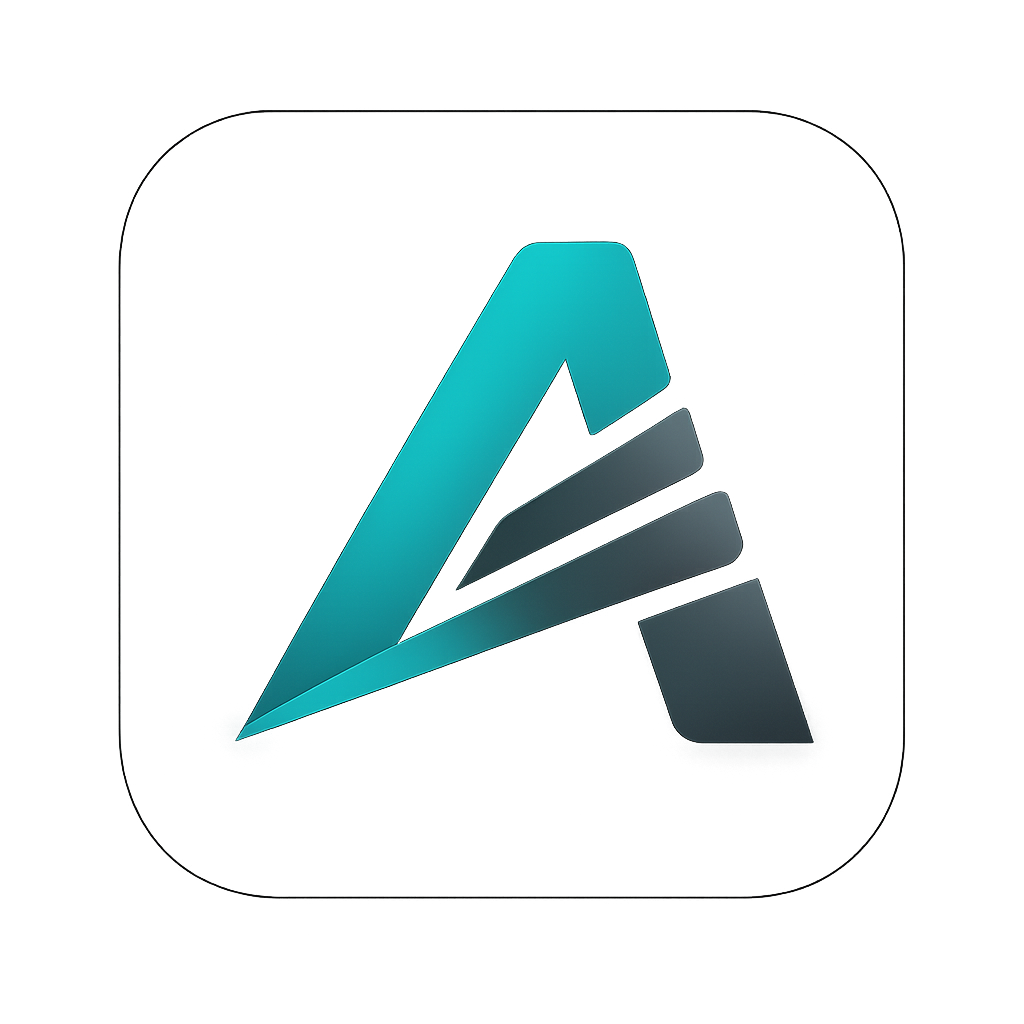
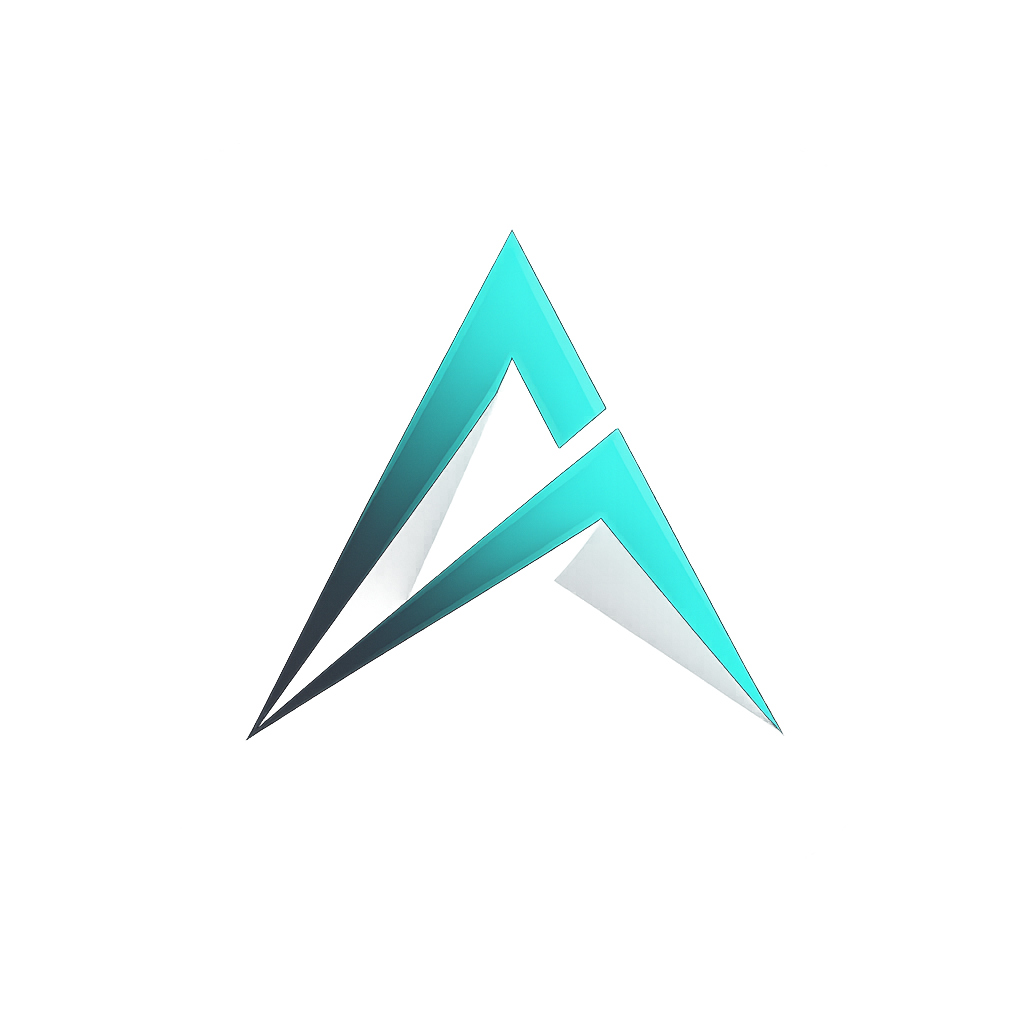
fix: Trainerize-style auth, workout tab layout, purge old colors
Auth screens (Trainerize-inspired):
- Welcome: clean centered "Welcome" title + SIGN IN button, nothing else
- Sign-in: back button, "Welcome" title, email/password with icons,
  SIGN IN button, Forgot Password link. No sign-up (coach invites).

Workout tab:
- Wrapped in SafeAreaView so header isn't cut off at top
- Consistent with other tabs

Purged hardcoded old colors across 6 files:
- preview.tsx: teal muscle icons → gray (#9CA3AF)
- exercises.tsx: cardio orange gradient → black
- analytics.tsx: teal muscle chart colors → grayscale
- MuscleBalance.tsx: teal/sage → grayscale
- RestTimer.tsx + InlineRestTimer.tsx: colored → grayscale

Updated app icon to latest version.

Changed region(s): [[0.2188, 0.2188, 0.8125, 0.75]]

diff --git a/app/sign-in.tsx b/app/sign-in.tsx
@@ -28,8 +28,7 @@ export default function SignIn() {
     try {
       const { data, error } = await supabase.auth.signInWithPassword({ email, password });
       if (error) { Alert.alert("Error", error.message); return; }
-      const userId = data.user?.id;
-      if (!userId) { Alert.alert("Error", "User not found."); return; }
+      if (!data.user?.id) { Alert.alert("Error", "User not found."); return; }
       router.replace("/(app)/(tabs)" as any);
     } catch (e: any) {
       Alert.alert("Error", e.message);
@@ -56,54 +55,58 @@ export default function SignIn() {
 
           <View style={styles.spacer} />
 
-          {/* Header */}
+          {/* Title */}
           <Text allowFontScaling={false} style={[styles.title, { color: colors.text }]}>
-            Sign In
+            Welcome
           </Text>
 
           {/* Form */}
           <View style={styles.form}>
-            <TextInput
-              placeholder="Email"
-              value={email}
-              onChangeText={setEmail}
-              autoCapitalize="none"
-              keyboardType="email-address"
-              textContentType="emailAddress"
-              placeholderTextColor={colors.inputPlaceholder}
-              style={[styles.input, { color: colors.text, borderColor: colors.border }]}
-            />
-            <TextInput
-              placeholder="Password"
-              value={password}
-              onChangeText={setPassword}
-              secureTextEntry
-              textContentType="password"
-              placeholderTextColor={colors.inputPlaceholder}
-              style={[styles.input, { color: colors.text, borderColor: colors.border }]}
-            />
+            <View style={[styles.inputRow, { borderBottomColor: colors.border }]}>
+              <Ionicons name="mail-outline" size={20} color={colors.textMuted} />
+              <TextInput
+                placeholder="Email"
+                value={email}
+                onChangeText={setEmail}
+                autoCapitalize="none"
+                keyboardType="email-address"
+                textContentType="emailAddress"
+                placeholderTextColor={colors.textMuted}
+                style={[styles.input, { color: colors.text }]}
+              />
+            </View>
+
+            <View style={[styles.inputRow, { borderBottomColor: colors.border }]}>
+              <Ionicons name="key-outline" size={20} color={colors.textMuted} />
+              <TextInput
+                placeholder="Password"
+                value={password}
+                onChangeText={setPassword}
+                secureTextEntry
+                textContentType="password"
+                placeholderTextColor={colors.textMuted}
+                style={[styles.input, { color: colors.text }]}
+              />
+            </View>
+
             <Pressable
               onPress={onLogin}
               disabled={loading}
               style={[styles.btn, { backgroundColor: colors.text }, loading && styles.btnDisabled]}
             >
               <Text allowFontScaling={false} style={[styles.btnText, { color: colors.bg }]}>
-                {loading ? "Signing in..." : "Sign In"}
+                {loading ? "Signing in..." : "SIGN IN"}
+              </Text>
+            </Pressable>
+
+            <Pressable style={styles.forgotWrap}>
+              <Text allowFontScaling={false} style={[styles.forgotText, { color: colors.textMuted }]}>
+                Forgot Password?
               </Text>
             </Pressable>
           </View>
 
           <View style={styles.spacer} />
-
-          {/* Footer */}
-          <View style={styles.footer}>
-            <Pressable onPress={() => router.replace("/sign-up")}>
-              <Text allowFontScaling={false} style={[styles.footerText, { color: colors.textMuted }]}>
-                Don't have an account?{" "}
-                <Text style={{ color: colors.text, fontWeight: "600" }}>Sign Up</Text>
-              </Text>
-            </Pressable>
-          </View>
         </ScrollView>
       </KeyboardAvoidingView>
     </SafeAreaView>
@@ -113,27 +116,32 @@ export default function SignIn() {
 const styles = StyleSheet.create({
   safe: { flex: 1 },
   flex: { flex: 1 },
-  scroll: { flexGrow: 1, paddingHorizontal: spacing.xl },
+  scroll: { flexGrow: 1, paddingHorizontal: 32 },
   spacer: { flex: 1 },
   backBtn: { width: 40, height: 40, justifyContent: "center", marginTop: spacing.sm },
-  title: { fontSize: 28, fontWeight: "700", marginBottom: spacing.xl },
-  form: { gap: 14 },
+  title: { fontSize: 34, fontWeight: "300", marginBottom: 32, letterSpacing: 1 },
+  form: { gap: 0 },
+  inputRow: {
+    flexDirection: "row",
+    alignItems: "center",
+    gap: 12,
+    borderBottomWidth: 1,
+    paddingVertical: 14,
+  },
   input: {
-    height: 52,
-    borderRadius: radius.md,
-    borderWidth: 1,
-    paddingHorizontal: spacing.base,
+    flex: 1,
     fontSize: 16,
+    paddingVertical: 2,
   },
   btn: {
-    height: 56,
-    borderRadius: radius.md,
+    height: 48,
+    borderRadius: radius.xl,
     alignItems: "center",
     justifyContent: "center",
-    marginTop: spacing.sm,
+    marginTop: 28,
   },
   btnDisabled: { opacity: 0.5 },
-  btnText: { fontSize: 17, fontWeight: "600" },
-  footer: { alignItems: "center", paddingBottom: spacing.lg },
-  footerText: { fontSize: 14 },
+  btnText: { fontSize: 14, fontWeight: "600", letterSpacing: 1 },
+  forgotWrap: { alignItems: "center", marginTop: 16 },
+  forgotText: { fontSize: 14 },
 });

diff --git a/app/welcome.tsx b/app/welcome.tsx
@@ -1,10 +1,8 @@
-import { Image, Pressable, StyleSheet, Text, View } from "react-native";
+import { Pressable, StyleSheet, Text, View } from "react-native";
 import { SafeAreaView } from "react-native-safe-area-context";
 import { router } from "expo-router";
 import { useTheme } from "@/src/context/ThemeContext";
 import { spacing, radius } from "@/src/theme";
-
-const LOGO = require("@/assets/images/icon.png");
 
 export default function Welcome() {
   const { colors } = useTheme();
@@ -12,28 +10,18 @@ export default function Welcome() {
   return (
     <SafeAreaView style={[styles.container, { backgroundColor: colors.bg }]}>
       <View style={styles.content}>
-        <Image source={LOGO} style={styles.logo} />
-        <Text allowFontScaling={false} style={[styles.brand, { color: colors.text }]}>
-          ADPT
+        <Text allowFontScaling={false} style={[styles.title, { color: colors.text }]}>
+          Welcome
         </Text>
       </View>
 
       <View style={styles.actions}>
         <Pressable
-          onPress={() => router.push("/sign-up")}
+          onPress={() => router.push("/sign-in")}
           style={[styles.primaryButton, { backgroundColor: colors.text }]}
         >
           <Text allowFontScaling={false} style={[styles.primaryText, { color: colors.bg }]}>
-            Get Started
-          </Text>
-        </Pressable>
-
-        <Pressable
-          onPress={() => router.push("/sign-in")}
-          style={styles.secondaryButton}
-        >
-          <Text allowFontScaling={false} style={[styles.secondaryText, { color: colors.text }]}>
-            Sign In
+            SIGN IN
           </Text>
         </Pressable>
       </View>
@@ -48,39 +36,25 @@ const styles = StyleSheet.create({
     alignItems: "center",
     justifyContent: "center",
   },
-  logo: {
-    width: 80,
-    height: 80,
-    borderRadius: 20,
-    marginBottom: spacing.base,
-  },
-  brand: {
-    fontSize: 28,
-    fontWeight: "700",
-    letterSpacing: 4,
+  title: {
+    fontSize: 34,
+    fontWeight: "300",
+    letterSpacing: 1,
   },
   actions: {
     paddingHorizontal: spacing.xl,
-    paddingBottom: spacing.xxl,
+    paddingBottom: 48,
     gap: spacing.md,
   },
   primaryButton: {
-    height: 56,
-    borderRadius: radius.md,
+    height: 52,
+    borderRadius: radius.xl,
     alignItems: "center",
     justifyContent: "center",
   },
   primaryText: {
-    fontSize: 17,
-    fontWeight: "600",
-  },
-  secondaryButton: {
-    height: 48,
-    alignItems: "center",
-    justifyContent: "center",
-  },
-  secondaryText: {
     fontSize: 15,
-    fontWeight: "500",
+    fontWeight: "600",
+    letterSpacing: 1,
   },
 });

diff --git a/app/(workout)/preview.tsx b/app/(workout)/preview.tsx
@@ -51,18 +51,18 @@ type PreviousSet = {
 
 // Muscle group icons mapping
 const MUSCLE_ICONS: Record<string, { icon: string; color: string }> = {
-  chest: { icon: "fitness", color: "#00C9B7" },
-  back: { icon: "body", color: "#33D4C5" },
-  shoulders: { icon: "barbell", color: "#00A89A" },
-  arms: { icon: "hand-left", color: "#7FA07F" },
-  biceps: { icon: "hand-left", color: "#7FA07F" },
-  triceps: { icon: "hand-right", color: "#6B8E6B" },
-  legs: { icon: "walk", color: "#60A5FA" },
-  quads: { icon: "walk", color: "#60A5FA" },
-  hamstrings: { icon: "walk", color: "#5B95E5" },
-  glutes: { icon: "walk", color: "#4B85D5" },
-  core: { icon: "body", color: "#F59E0B" },
-  abs: { icon: "body", color: "#F59E0B" },
+  chest: { icon: "fitness", color: "#9CA3AF" },
+  back: { icon: "body", color: "#9CA3AF" },
+  shoulders: { icon: "barbell", color: "#9CA3AF" },
+  arms: { icon: "hand-left", color: "#9CA3AF" },
+  biceps: { icon: "hand-left", color: "#9CA3AF" },
+  triceps: { icon: "hand-right", color: "#9CA3AF" },
+  legs: { icon: "walk", color: "#9CA3AF" },
+  quads: { icon: "walk", color: "#9CA3AF" },
+  hamstrings: { icon: "walk", color: "#9CA3AF" },
+  glutes: { icon: "walk", color: "#9CA3AF" },
+  core: { icon: "body", color: "#9CA3AF" },
+  abs: { icon: "body", color: "#9CA3AF" },
 };
 
 const getMuscleIcon = (muscleGroup?: string) => {

diff --git a/app/(app)/(tabs)/workout.tsx b/app/(app)/(tabs)/workout.tsx
@@ -12,6 +12,7 @@ import { Ionicons } from "@expo/vector-icons";
 import Animated, { FadeInDown } from "react-native-reanimated";
 import { format } from "date-fns";
 
+import { SafeAreaView } from "react-native-safe-area-context";
 import { useTheme } from "@/src/context/ThemeContext";
 import { supabase } from "@/lib/supabase";
 import { hapticPress } from "@/src/animations/feedback/haptics";
@@ -102,7 +103,7 @@ export default function WorkoutScreen() {
   };
 
   return (
-    <View style={[styles.container, { backgroundColor: colors.bg }]}>
+    <SafeAreaView style={[styles.container, { backgroundColor: colors.bg }]} edges={["top"]}>
       {/* Header */}
       <View style={styles.header}>
         <Text allowFontScaling={false} style={[styles.headerTitle, { color: colors.text }]}>
@@ -253,7 +254,7 @@ export default function WorkoutScreen() {
           />
         </Animated.View>
       </ScrollView>
-    </View>
+    </SafeAreaView>
   );
 }
 

diff --git a/app/(workout)/exercises.tsx b/app/(workout)/exercises.tsx
@@ -49,7 +49,7 @@ const muscleGroupConfig: Record<string, { muscle: string; gradient: readonly [st
   "Legs":      { muscle: "quads",     gradient: gradients.legs,      color: muscleGroupColors.legs,      icon: "walk" },
   "Core":      { muscle: "core",      gradient: gradients.core,      color: muscleGroupColors.core,      icon: "radio-button-on" },
   "Full Body": { muscle: "full body", gradient: gradients.fullBody,  color: muscleGroupColors.fullBody,  icon: "body" },
-  "Cardio":    { muscle: "chest",     gradient: ["#FF6B35", "#E55A2B"] as const, color: "#FF6B35",        icon: "heart" },
+  "Cardio":    { muscle: "chest",     gradient: ["#000000", "#1A1A1A"] as const, color: "#000000",        icon: "heart" },
 };
 
 export default function ExercisesScreen() {

diff --git a/src/components/progress/MuscleBalance.tsx b/src/components/progress/MuscleBalance.tsx
@@ -25,12 +25,12 @@ type MuscleBalanceProps = {
 
 // Muscle group colors - distinctive but cohesive
 const muscleColors: Record<string, string> = {
-  Chest: "#00C9B7",      // Primary teal
-  Back: "#33D4C5",       // Light teal
-  Shoulders: "#00A89A",  // Dark teal
-  Arms: "#7FA07F",       // Sage green
-  Legs: "#6B8E6B",       // Dark sage
-  Core: "#60A5FA",       // Info blue
+  Chest: "#000000",
+  Back: "#1A1A1A",
+  Shoulders: "#333333",
+  Arms: "#4B5563",
+  Legs: "#6B7280",
+  Core: "#9CA3AF",
 };
 
 export const MuscleBalance: React.FC<MuscleBalanceProps> = ({ 

diff --git a/src/components/workout/InlineRestTimer.tsx b/src/components/workout/InlineRestTimer.tsx
@@ -24,9 +24,9 @@ export function InlineRestTimer() {
     if (!restTimer.active) return colors.text;
     const totalEstimate = restTimer.secondsLeft + 10; // rough estimate
     const pct = restTimer.secondsLeft / Math.max(totalEstimate, 60);
-    if (pct > 0.5) return "#4CAF50"; // green
-    if (pct > 0.2) return "#FFC107"; // yellow
-    return "#FF6B35"; // red/orange
+    if (pct > 0.5) return "#9CA3AF";
+    if (pct > 0.2) return "#6B7280";
+    return "#000000";
   }, [restTimer.secondsLeft, restTimer.active, colors.text]);
 
   if (!restTimer.active) return null;

diff --git a/app/(app)/progress/analytics.tsx b/app/(app)/progress/analytics.tsx
@@ -48,8 +48,8 @@ const { width: SW } = Dimensions.get("window");
 const KEY_LIFTS = ["Bench Press", "Squat", "Deadlift", "Overhead Press"];
 
 const MUSCLE_COLORS: Record<string, string> = {
-  Chest: "#00C9B7", Back: "#33D4C5", Shoulders: "#00A89A",
-  Arms: "#7FA07F", Legs: "#6B8E6B", Core: "#60A5FA",
+  Chest: "#000000", Back: "#1A1A1A", Shoulders: "#333333",
+  Arms: "#4B5563", Legs: "#6B7280", Core: "#9CA3AF",
 };
 
 const TIME_RANGES: { label: string; value: TimeRange }[] = [

diff --git a/src/components/workout/RestTimer.tsx b/src/components/workout/RestTimer.tsx
@@ -26,9 +26,9 @@ import { haptic } from "@/src/animations/feedback/haptics";
 const AnimatedCircle = Animated.createAnimatedComponent(Circle);
 
 // Color stops for the timer gradient
-const COLOR_GREEN = "#4CAF50";
-const COLOR_YELLOW = "#FFC107";
-const COLOR_RED = "#FF6B35";
+const COLOR_GREEN = "#9CA3AF";
+const COLOR_YELLOW = "#6B7280";
+const COLOR_RED = "#000000";
 
 type RestTimerProps = {
   duration: number; // seconds
